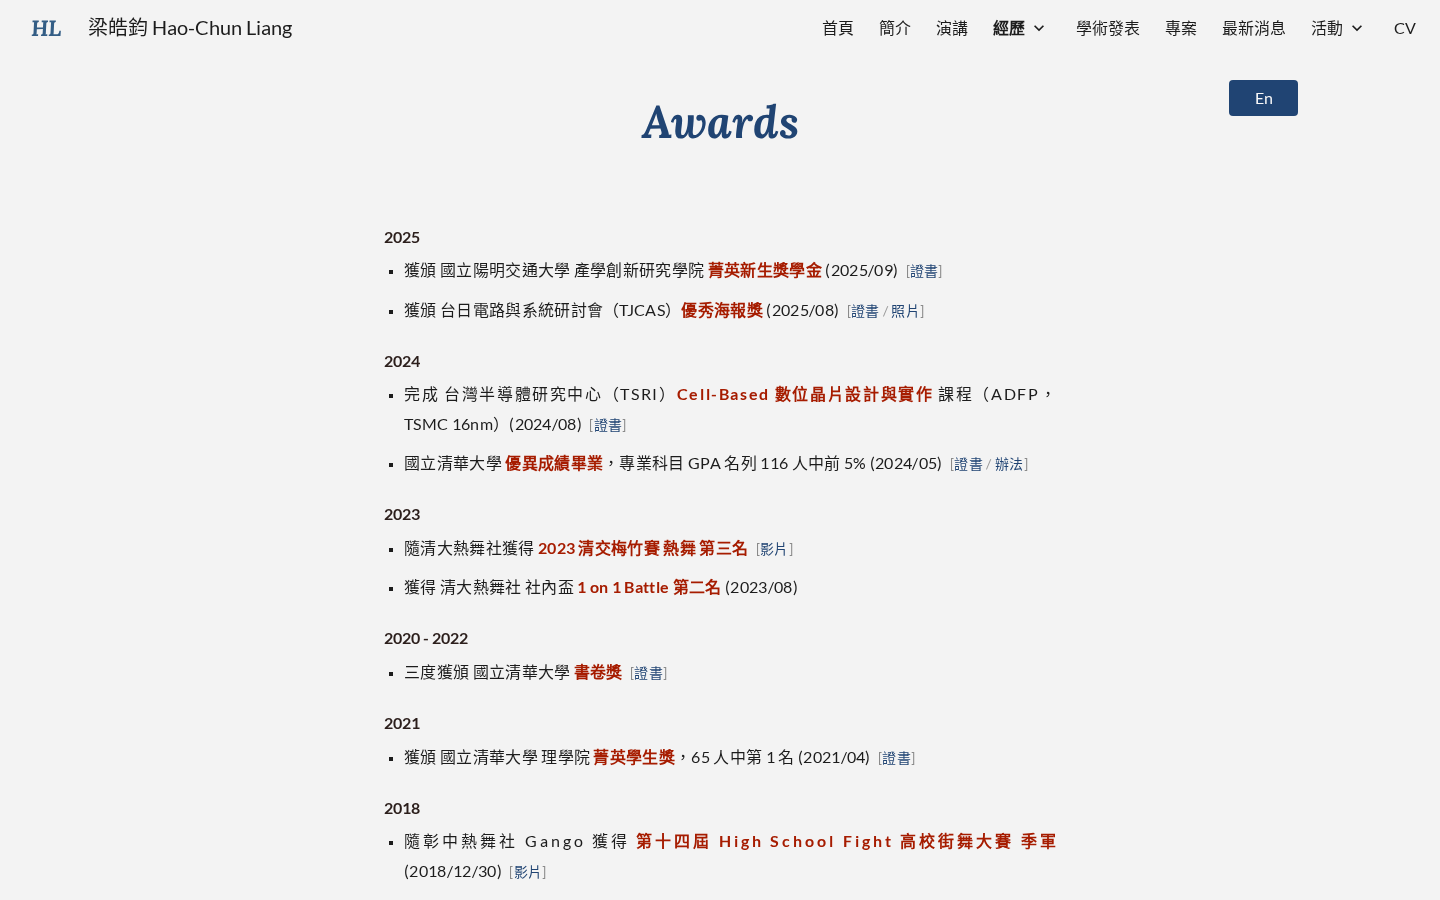
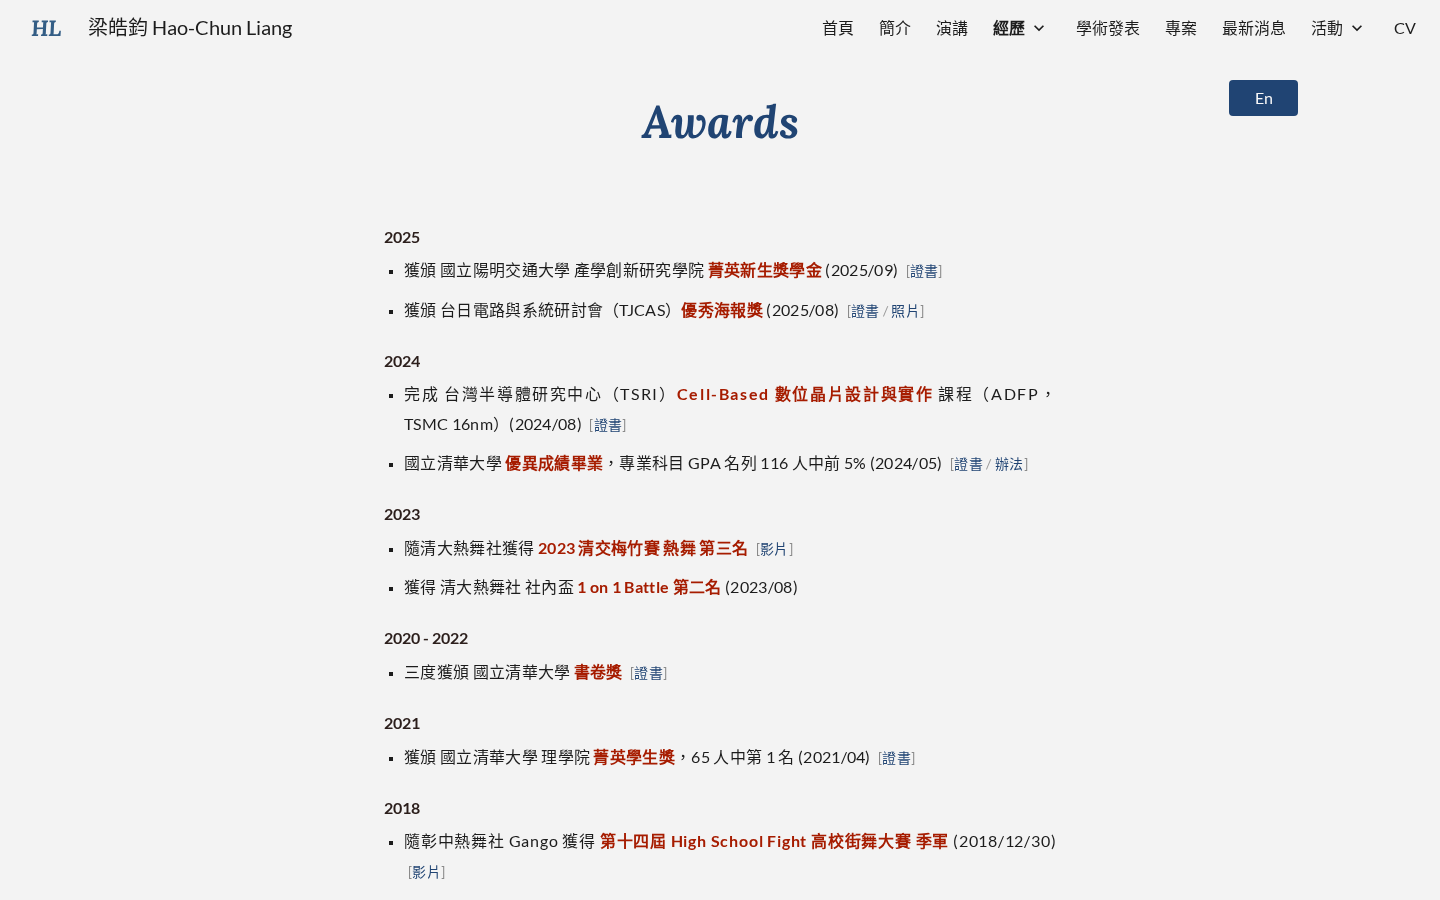
Fix stretched last lines in justified text; CV drops undergraduate coursework
Chromium stretches the last line when text-wrap: pretty meets text-align:
justify, so justified blocks use plain wrapping (gsite.js already binds the
last words). CSS v30.

Claude-Session: https://claude.ai/code/session_01YYQQxzKC9fV2djn5XGgtNn

Changed region(s): [[0.2812, 0.9022, 0.75, 0.9956]]

diff --git a/cv/index.html b/cv/index.html
@@ -24,7 +24,7 @@
   <meta name="twitter:description" content="Curriculum vitae of Hao-Chun Liang.">
   <meta name="twitter:image" content="https://noyaboy.github.io/images/og-card-taipei.jpg">
   <link rel="preload" href="/assets/fonts/lato-700-latin.woff2" as="font" type="font/woff2" crossorigin>
-  <link rel="stylesheet" href="/assets/gsite.css?v=29">
+  <link rel="stylesheet" href="/assets/gsite.css?v=30">
 </head>
 <body>
 
@@ -82,10 +82,6 @@
       <li><a href="https://github.com/noyaboy/NYCU-IEE-VLSI-DSP-2026-Spring" target="_blank" rel="noopener">DSP-VLSI</a> <span class="hl">(A+)</span></li>
       <li><a href="https://github.com/noyaboy/NYCU-IEE-Deep-Learning-2025F" target="_blank" rel="noopener">Deep Learning</a> <span class="hl">(A+)</span></li>
       <li><a href="https://github.com/noyaboy/NYCU-IEE-2025-FALL-Stochastic-Process" target="_blank" rel="noopener">Stochastic Processes</a> <span class="hl">(A+)</span></li>
-    </ul>
-    <h3 class="group">Undergraduate Coursework (NTHU)</h3>
-    <ul class="list">
-      <li>ICLAB (A+), VLSI Testing (A+), VLSI (A), Computer Architecture (A-), Machine Learning (A), Communication System (A+)</li>
     </ul>
   </section>
 

diff --git a/assets/gsite.css b/assets/gsite.css
@@ -807,10 +807,12 @@ html[lang="zh-Hant-TW"] .cite-list > li {
 .list > li,
 .cite-list > li,
 .news-list li,
-.list .sub:not(.inline) { text-align: justify; hyphens: auto; }
+.list .sub:not(.inline) { text-align: justify; hyphens: auto; text-wrap: wrap; }
+/* text-wrap: pretty plus justify makes Chromium stretch the LAST line too; gsite.js already binds the last words, so plain wrap loses nothing */
 /* A wrapped title line that ends right before a block .sub is stretched by Chromium as if it were a full line */
 .list > li:has(> .sub:not(.inline)) { text-align: start; }
 .list > li:has(> .sub:not(.inline)) > .sub:not(.inline) { text-align: justify; }
+.list > li:has(> .sub:not(.inline)) { text-wrap: pretty; }
 html[lang="zh-Hant-TW"] :is(.bio p, .section > p, .list > li, .cite-list > li, .news-list li, .list .sub) { text-justify: inter-character; }
 .list > li { margin-bottom: 0.6em; }
 .cite-list > li { margin-bottom: 0.9em; }

diff --git a/zh/index.html b/zh/index.html
@@ -29,7 +29,7 @@
   <link rel="preload" href="/assets/fonts/lato-700-latin.woff2" as="font" type="font/woff2" crossorigin>
   <link rel="preload" href="/assets/fonts/lora-700-italic-latin.woff2" as="font" type="font/woff2" crossorigin>
   <link rel="preload" href="/images/hehuan-banner.jpg" as="image" fetchpriority="high">
-  <link rel="stylesheet" href="/assets/gsite.css?v=29">
+  <link rel="stylesheet" href="/assets/gsite.css?v=30">
 <script>
 /* Old single-page links (/#unitrac, /#education, ...) now live on their own pages. */
 (function () {

diff --git a/index.html b/index.html
@@ -29,7 +29,7 @@
   <link rel="preload" href="/assets/fonts/lato-700-latin.woff2" as="font" type="font/woff2" crossorigin>
   <link rel="preload" href="/assets/fonts/lora-700-italic-latin.woff2" as="font" type="font/woff2" crossorigin>
   <link rel="preload" href="/images/hehuan-banner.jpg" as="image" fetchpriority="high">
-  <link rel="stylesheet" href="/assets/gsite.css?v=29">
+  <link rel="stylesheet" href="/assets/gsite.css?v=30">
   <script type="application/ld+json">
   {
     "@context": "https://schema.org",

diff --git a/activity/martial-arts/index.html b/activity/martial-arts/index.html
@@ -28,7 +28,7 @@
   <meta name="twitter:image" content="https://noyaboy.github.io/images/og-card-taipei.jpg">
   <link rel="preload" href="/assets/fonts/lato-700-latin.woff2" as="font" type="font/woff2" crossorigin>
   <link rel="preload" href="/assets/fonts/lora-700-italic-latin.woff2" as="font" type="font/woff2" crossorigin>
-  <link rel="stylesheet" href="/assets/gsite.css?v=29">
+  <link rel="stylesheet" href="/assets/gsite.css?v=30">
 </head>
 <body>
 

diff --git a/activity/pcs-lab/index.html b/activity/pcs-lab/index.html
@@ -28,7 +28,7 @@
   <meta name="twitter:image" content="https://noyaboy.github.io/images/og-card-taipei.jpg">
   <link rel="preload" href="/assets/fonts/lato-700-latin.woff2" as="font" type="font/woff2" crossorigin>
   <link rel="preload" href="/assets/fonts/lora-700-italic-latin.woff2" as="font" type="font/woff2" crossorigin>
-  <link rel="stylesheet" href="/assets/gsite.css?v=29">
+  <link rel="stylesheet" href="/assets/gsite.css?v=30">
 </head>
 <body>
 

diff --git a/activity/pop-dance-club/index.html b/activity/pop-dance-club/index.html
@@ -28,7 +28,7 @@
   <meta name="twitter:image" content="https://noyaboy.github.io/images/og-card-taipei.jpg">
   <link rel="preload" href="/assets/fonts/lato-700-latin.woff2" as="font" type="font/woff2" crossorigin>
   <link rel="preload" href="/assets/fonts/lora-700-italic-latin.woff2" as="font" type="font/woff2" crossorigin>
-  <link rel="stylesheet" href="/assets/gsite.css?v=29">
+  <link rel="stylesheet" href="/assets/gsite.css?v=30">
 </head>
 <body>
 

diff --git a/activity/travel/index.html b/activity/travel/index.html
@@ -28,7 +28,7 @@
   <meta name="twitter:image" content="https://noyaboy.github.io/images/og-card-taipei.jpg">
   <link rel="preload" href="/assets/fonts/lato-700-latin.woff2" as="font" type="font/woff2" crossorigin>
   <link rel="preload" href="/assets/fonts/lora-700-italic-latin.woff2" as="font" type="font/woff2" crossorigin>
-  <link rel="stylesheet" href="/assets/gsite.css?v=29">
+  <link rel="stylesheet" href="/assets/gsite.css?v=30">
 </head>
 <body>
 

diff --git a/biography/index.html b/biography/index.html
@@ -28,7 +28,7 @@
   <meta name="twitter:image" content="https://noyaboy.github.io/images/og-card-taipei.jpg">
   <link rel="preload" href="/assets/fonts/lato-700-latin.woff2" as="font" type="font/woff2" crossorigin>
   <link rel="preload" href="/assets/fonts/lora-700-italic-latin.woff2" as="font" type="font/woff2" crossorigin>
-  <link rel="stylesheet" href="/assets/gsite.css?v=29">
+  <link rel="stylesheet" href="/assets/gsite.css?v=30">
 </head>
 <body>
 

diff --git a/experience/awards/index.html b/experience/awards/index.html
@@ -28,7 +28,7 @@
   <meta name="twitter:image" content="https://noyaboy.github.io/images/og-card-taipei.jpg">
   <link rel="preload" href="/assets/fonts/lato-700-latin.woff2" as="font" type="font/woff2" crossorigin>
   <link rel="preload" href="/assets/fonts/lora-700-italic-latin.woff2" as="font" type="font/woff2" crossorigin>
-  <link rel="stylesheet" href="/assets/gsite.css?v=29">
+  <link rel="stylesheet" href="/assets/gsite.css?v=30">
 </head>
 <body>
 

diff --git a/experience/index.html b/experience/index.html
@@ -28,7 +28,7 @@
   <meta name="twitter:image" content="https://noyaboy.github.io/images/og-card-taipei.jpg">
   <link rel="preload" href="/assets/fonts/lato-700-latin.woff2" as="font" type="font/woff2" crossorigin>
   <link rel="preload" href="/assets/fonts/lora-700-italic-latin.woff2" as="font" type="font/woff2" crossorigin>
-  <link rel="stylesheet" href="/assets/gsite.css?v=29">
+  <link rel="stylesheet" href="/assets/gsite.css?v=30">
 </head>
 <body>
 

diff --git a/news/index.html b/news/index.html
@@ -28,7 +28,7 @@
   <meta name="twitter:image" content="https://noyaboy.github.io/images/og-card-taipei.jpg">
   <link rel="preload" href="/assets/fonts/lato-700-latin.woff2" as="font" type="font/woff2" crossorigin>
   <link rel="preload" href="/assets/fonts/lora-700-italic-latin.woff2" as="font" type="font/woff2" crossorigin>
-  <link rel="stylesheet" href="/assets/gsite.css?v=29">
+  <link rel="stylesheet" href="/assets/gsite.css?v=30">
 </head>
 <body>
 
